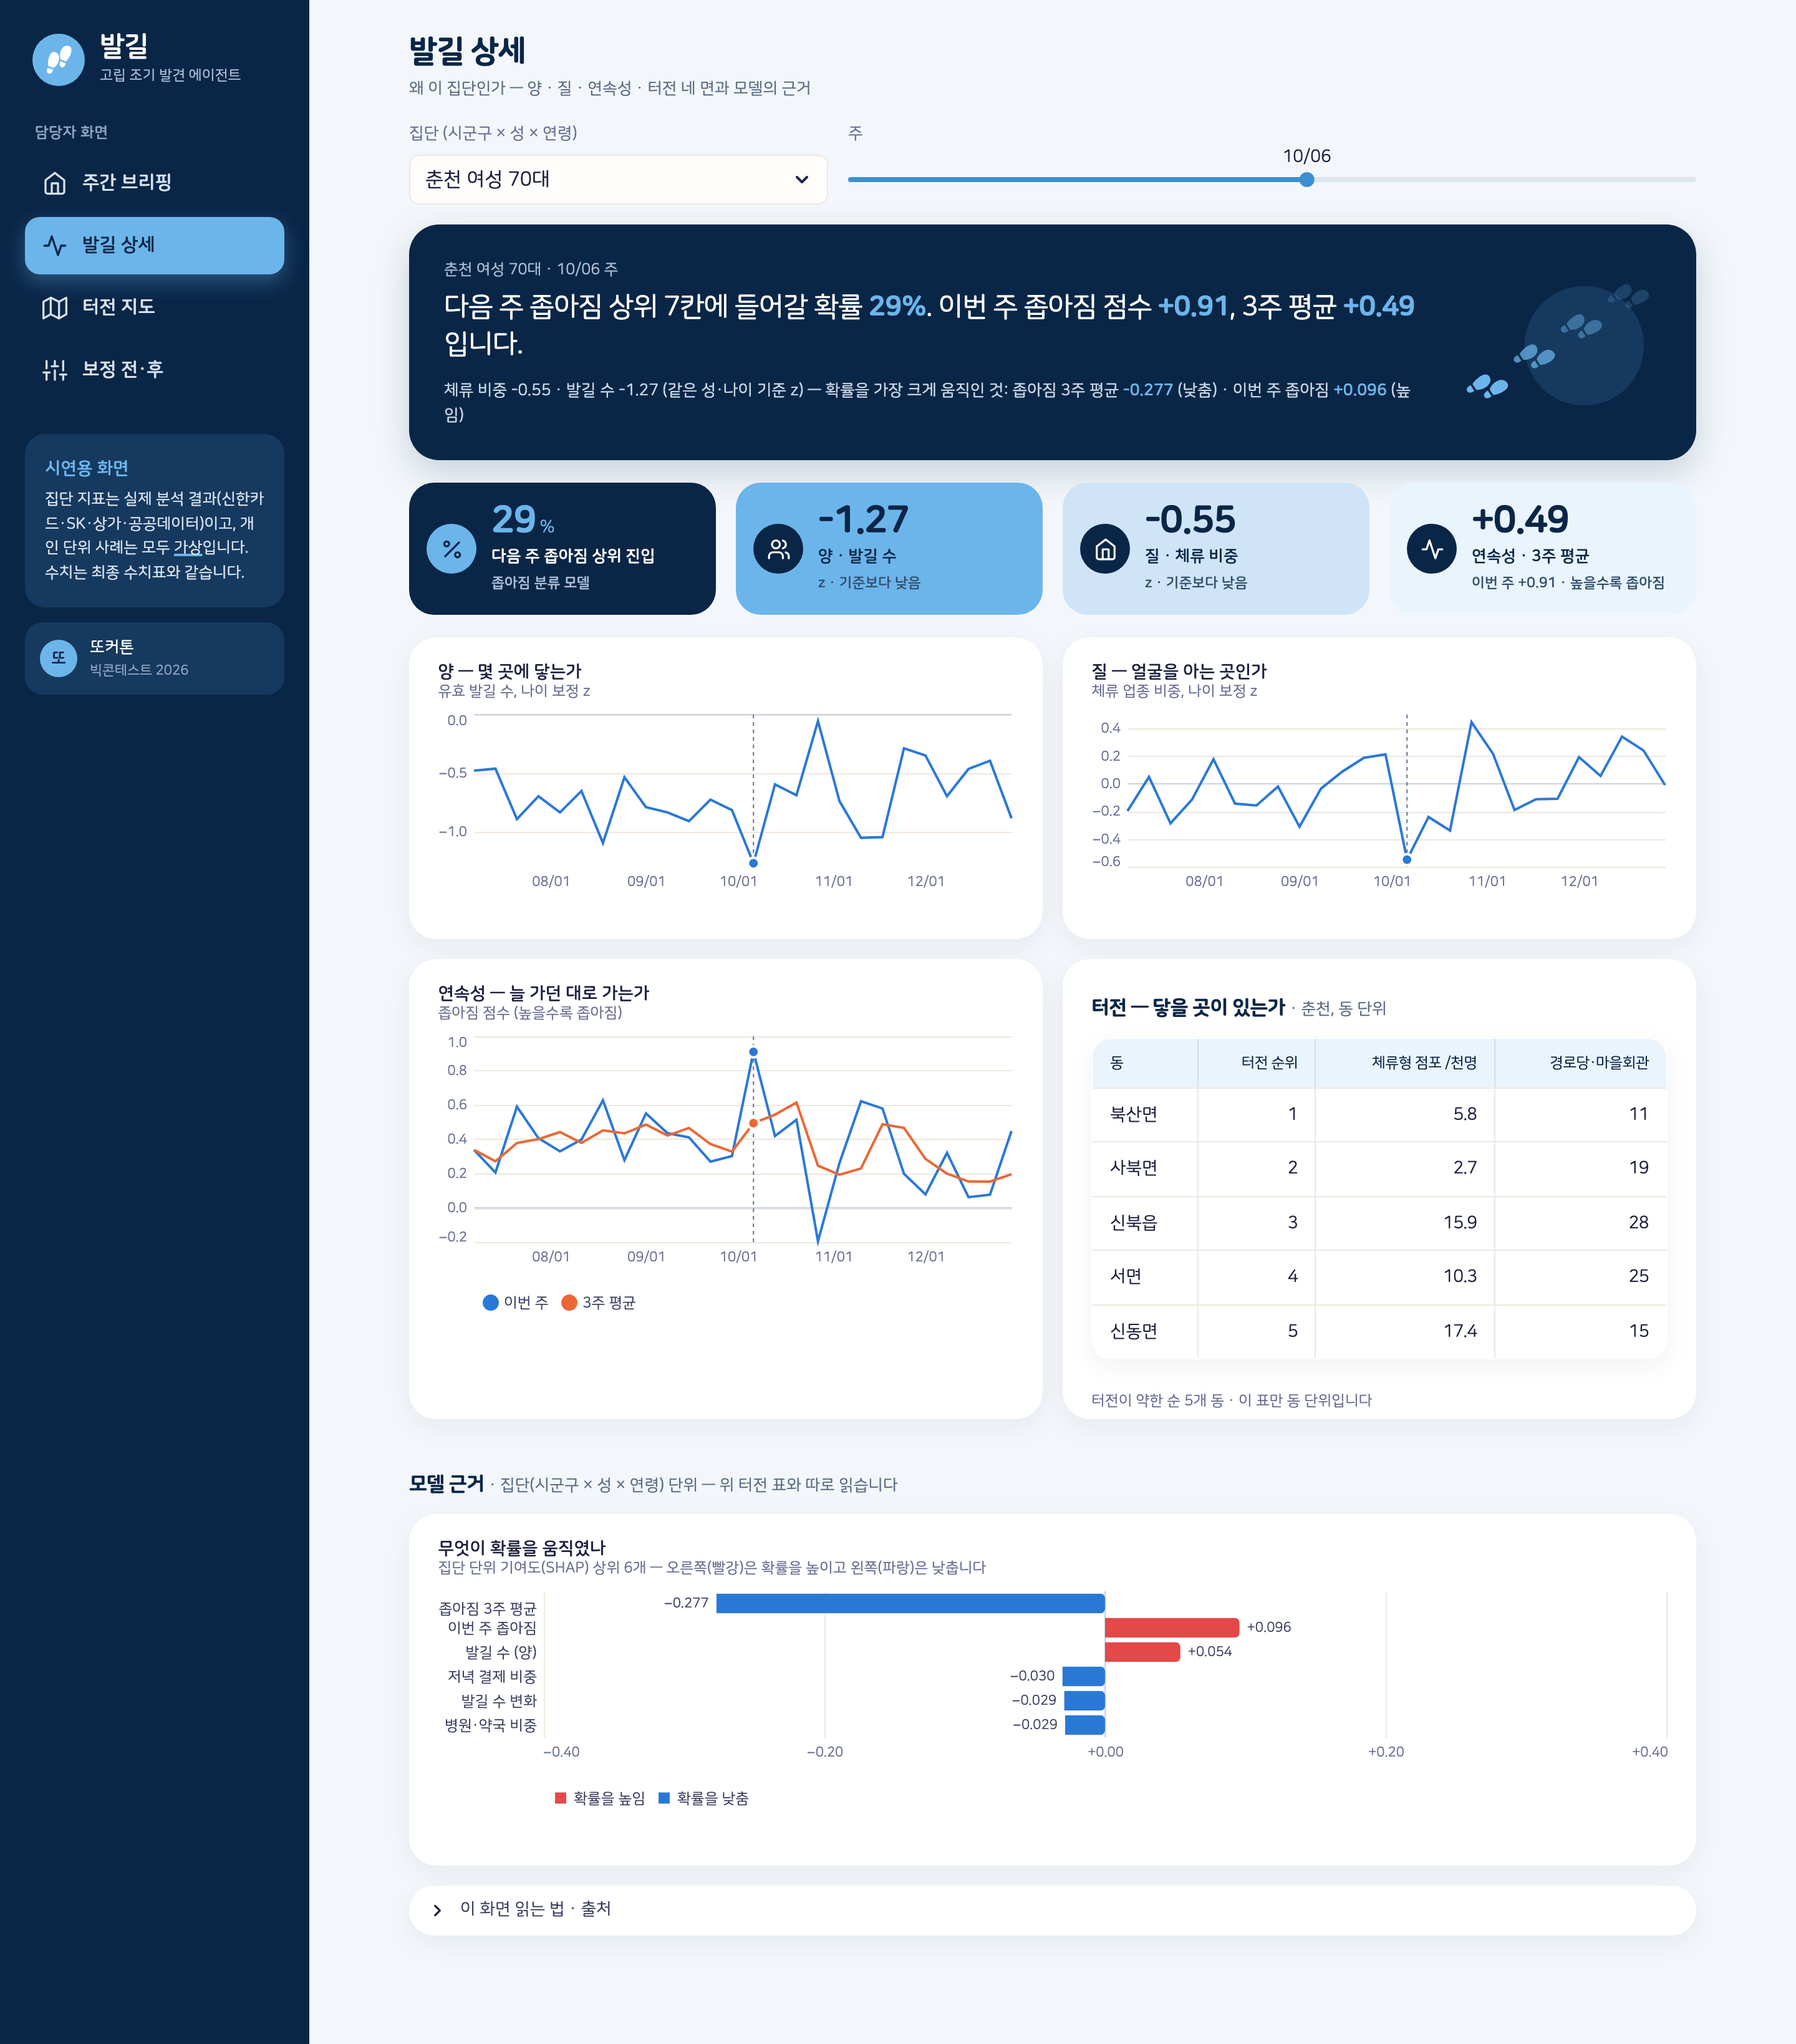
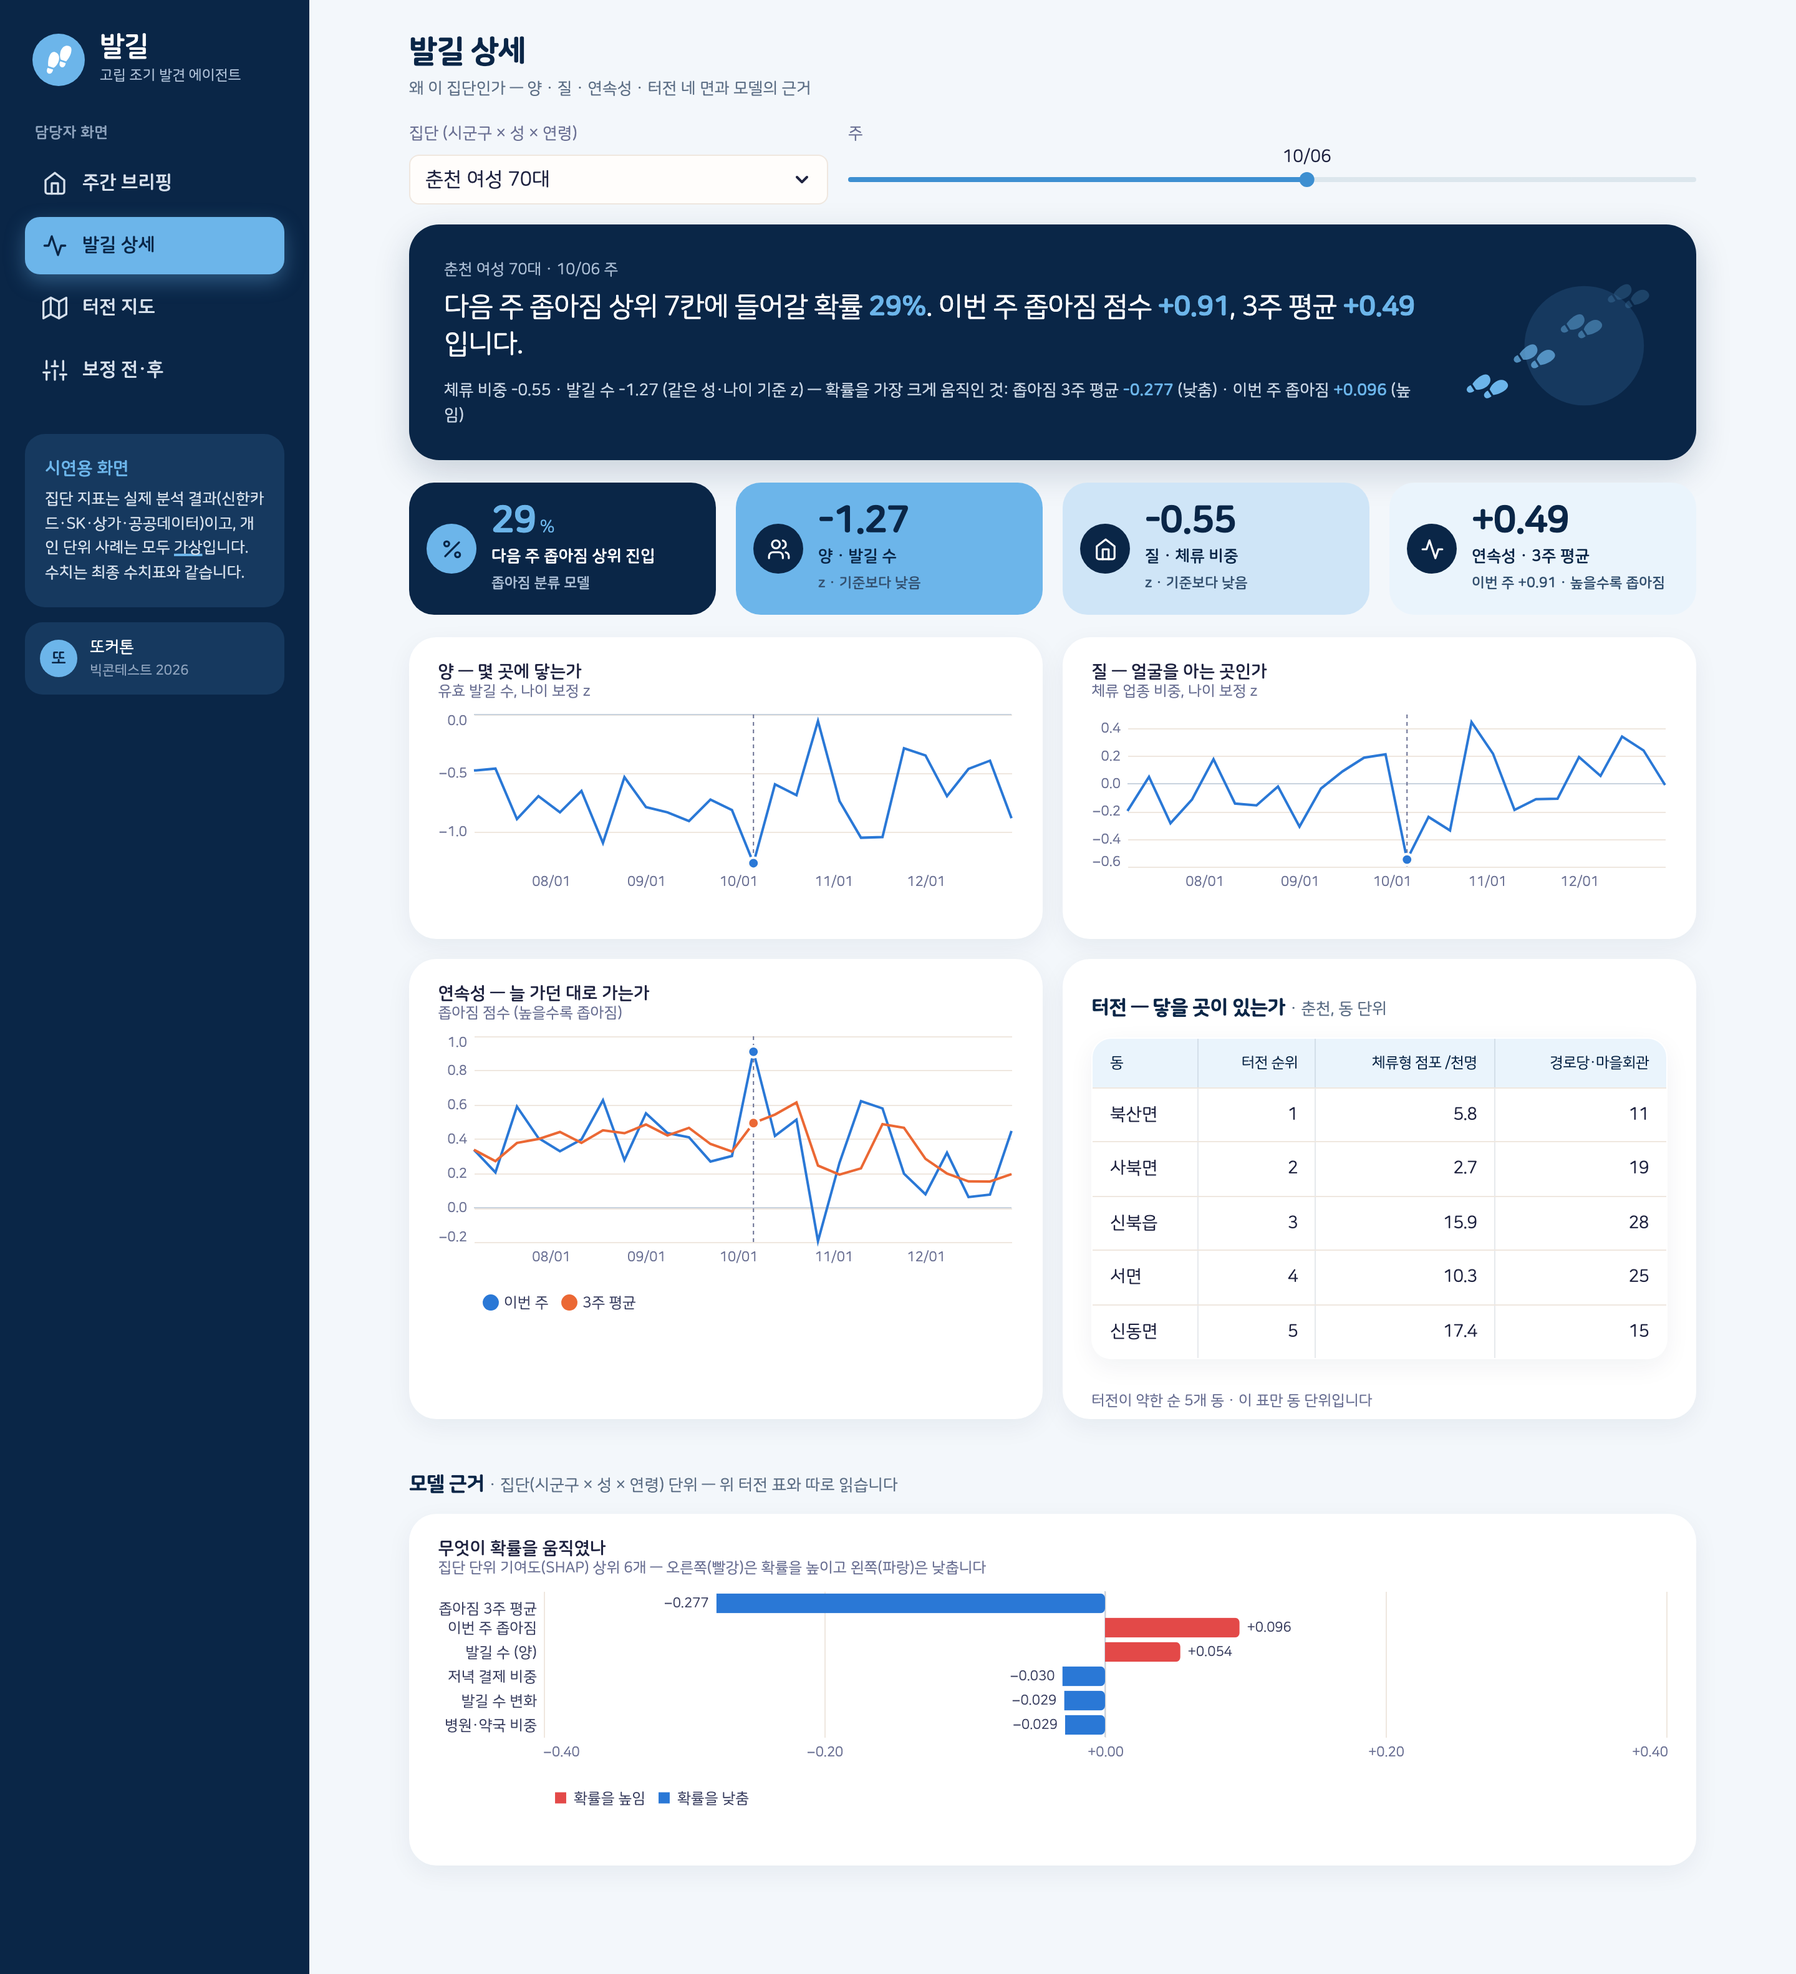
담당자 화면에서 「이 화면 읽는 법 · 출처」를 빼기 — 방법·출처는 보고서에 맡긴다
10/26 현수 의견: 단위 · 보정 · 창구 3배 · 출처 같은 설명은 보고서(06·07·08절 · E5)에 이미 있고, 대시보드에 두기엔 과합니다.
네 화면의 readme 칸과 readme() 함수를 지웠습니다. 가상 데이터 표기는 왼쪽 「시연용 화면」 안내와 「먼저 확인할 사람」 머리의 「가상 명부」로 남습니다.
캡처 다섯 장 · 발표 11장 그림 · 보고서 md/html을 다시 만들고, 제출 메일 3번 표의 화면캡처 zip을 2.41MB · 9293ddf4…로 바꿨습니다(드라이브에 올릴 그 파일).

diff --git a/app/balgil_app.py b/app/balgil_app.py
@@ -15,7 +15,7 @@
     장보기형·병원약국형 구분은 agent.py에 규칙이 생기면 따라 바꾼다(#4 수경 코멘트).
   * 숫자는 docs/최종수치표.md와 같다 — 화면이 새 숫자를 만들지 않고 위 파일만 읽는다.
   * 읽는 순서를 정한다: 질문(제목) → 답 카드 한 장(「그래서 무엇을」 + 오늘 할 일) → 그림 → 세부는 접어 둔다.
-    방법·출처 설명은 화면마다 맨 아래 「이 화면 읽는 법 · 출처」 한 곳에 모은다.
+    방법·출처 설명은 화면에 두지 않고 보고서(06·07·08절 · E5)에 맡긴다 — 담당자 화면에는 답과 그림만(10/26).
 
 겉모양은 app/style.py(Stripe DESIGN.md 토큰). 데이터 색은 dataviz 기준 팔레트(검증: validate_palette.js)
   신호(빨강·주황·노랑)  status critical/serious/warning — 색만으로 말하지 않고 항상 점·글자를 같이 단다
@@ -191,13 +191,6 @@ SHORT = {"빨강": "필수형 끊김", "주황": "대면형 끊김", "노랑": "
 SEXES, AGES = ["남", "여"], ["60대", "70대", "80대"]
 
 
-def readme(parts: list[str]):
-    """방법·출처 설명은 화면 맨 아래 한 곳에 접어 둔다 — 먼저 보는 자리에는 답과 그림만 둔다."""
-    with st.expander("이 화면 읽는 법 · 출처"):
-        for t in parts:
-            st.caption(t)
-
-
 def briefing_answer(g: pd.DataFrame, n_people: int) -> tuple[str, str, list | None]:
     """이번 주 답 — (한 줄, 덧말, 오늘 할 일). agent.py 권고 순서(07_에이전트 7.5)를 할 일 세 칸으로 편다.
     첫인상에서 읽히도록 한 줄은 짧게, 근거 숫자는 아래 타일·신호판이 맡는다."""
@@ -320,14 +313,6 @@ def screen_briefing():
         if steps:
             html(ui.timeline("오늘 할 일", "agent.py 권고 순서", steps))
         resource_lines(g)
-        readme([
-            "사람 — 대상자·주소·접촉일·장소는 모두 가상입니다. 신호는 집단 단위이고, 동은 대상자 주소에서만 붙입니다.",
-            "신호 — agent.py 판정입니다. 지난 7일 발길을 계절·같은 도시 30·40대 공통 충격으로 보정했습니다. "
-            "칸의 숫자는 7일 중 가장 크게 준 날(빨강은 필수, 주황은 대면 발길)입니다.",
-            "날씨 가능 — 끊긴 기간에 궂은 날이 있었다는 꼬리표일 뿐, 알림을 지우지 않습니다.",
-            "창구 — 그 동의 상대방 업종 가게가 경로당·마을회관의 3배가 안 되면 경로당·마을회관을 먼저 묻습니다(3배는 #49에서 정한 판단값). "
-            "표의 「가게 ↔ 경로당」은 그 비교에 쓴 공개 자료 개수이고, 전화할 곳의 수가 아닙니다 — 실제로 묻는 곳은 「물어볼 장소」 넉 줄까지입니다.",
-            "가져갈 것 — 복지로·1365에서 고른 집단 단위 후보입니다. 실제 연결은 방문한 담당자가 판단합니다."])
 
 
 # ── ② 발길 상세 ────────────────────────────────────────────────────────
@@ -543,10 +528,6 @@ def screen_detail():
         st.altair_chart((zero + bars + labels).properties(
             title=alt.Title("무엇이 확률을 움직였나", subtitle="집단 단위 기여도(SHAP) 상위 6개 — 오른쪽(빨강)은 확률을 높이고 왼쪽(파랑)은 낮춥니다"),
             height=240), width="stretch")
-    readme(["단위 — 지표와 확률은 집단(시군구 × 성 × 연령), 터전은 동 단위입니다. 터전은 모델 입력에 없어 따로 읽습니다(#14).",
-            "z — 같은 성·나이 기준으로 나이 효과를 덜어 낸 값입니다. 0이 기준, 음수면 기준보다 낮습니다.",
-            "모델 — 랜덤포레스트(재분석 b3)가 다음 주 좁아짐 상위 7칸에 들 확률입니다. 새로 든 양성이 31건뿐인 소표본입니다.",
-            "답 카드 — 고정 문장 틀입니다(LLM 아님)."])
 
 
 def side(z: float) -> str:
@@ -738,7 +719,6 @@ def map_metric_side(g: gpd.GeoDataFrame, city: str, col: str, label: str):
     st.write("")
     html("<div class='bg-callout'>체류형 점포와 경로당·마을회관은 <b>방향이 반대</b>입니다(춘천 스피어만 −0.79, 상가 × 시설). "
          "면 지역은 가게가 적은 대신 60세 이상 천 명당 경로당이 많아, 한 지수로 더하지 않고 따로 봅니다.</div>")
-    readme(["시설 — 사회복지시설은 좌표가 없어 뺐습니다. 경로당 목록 기준일은 강남 2024-07, 춘천 2025-07입니다."])
 
 
 def map_quadrant_side(g: gpd.GeoDataFrame, city: str):
@@ -762,9 +742,6 @@ def map_quadrant_side(g: gpd.GeoDataFrame, city: str):
                     "대응": ui.badge(QUAD[x.사분면][1], QUAD[x.사분면][0]),
                     "고령 1인세대": f"{int(x.고령1인세대수):,}"}
                    for x in p[short].head(6).itertuples()]))
-    readme(["사분면 — 공급 부족은 통신 터전 순위 하위 절반, 필요 큼은 고령 1인세대가 도시 중앙값 이상입니다.",
-            "도달 효율 — 우선순위 k개 동의 고령 1인세대 ÷ 무작위 k개 기댓값. 터전 하위 동만 고르면 무작위와 같아, 터전은 형평의 근거로 씁니다.",
-            "출처 — data/reference/dong_priority.csv · reach_efficiency.csv"])
 
 
 # ── ④ 보정 전·후 ───────────────────────────────────────────────────────
@@ -823,9 +800,6 @@ def screen_correction():
             title=alt.Title("집단 × 날짜 알림", subtitle=f"{step}{' · 병원·약국 분리' if nomed else ''} — 빨간 칸이 끊김 판정"),
             height=330), width="stretch")
         html(ui.legend([("알림 (끊김 판정)", CRITICAL), ("공통 사건 주간 (추석·광복절·성탄 뒤 7일)", SHADE)]))
-    readme([f"보정 — 알림 칸은 보정 없음 {n0} → 계절형 {n1} → 공통 충격(같은 도시 30·40대) {n2}개입니다.",
-            "병원·약국 분리 — 네 번째 단계가 아니라 같은 세 단계를 다시 잰 다른 축입니다(오른쪽 위 스위치).",
-            f"출처 — 재분석 b2 (reanalysis/reference/{'nomed_' if nomed else ''}false_alarm.csv)"])
 
 
 # ── 화면 ───────────────────────────────────────────────────────────────

diff --git a/docs/체크리스트_윤지.md b/docs/체크리스트_윤지.md
@@ -112,7 +112,7 @@
 
 - [x] ~~제출 메일 초안~~ → **10/16 완료**([`제출요건.md`](제출요건.md) 6-2). 팀명(**또커톤**)까지 채웠고 「보내기 전 확인」 다섯 줄을 붙였습니다. 남은 〈 〉는 **링크와 보내는 사람 이름** 둘입니다
 - [x] ~~10/25 — 발표 PDF · 보고서 PDF를 떠서 크기 재기~~ → **보고서 6.18MB(98쪽) · E5 0.37MB · E6 0.24MB**를 `python scripts/build_pdf.py`(크롬 헤드리스)로 떴습니다. 1쪽과 47쪽을 열어 한글 글꼴·표·그림을 눈으로 확인했습니다. **발표자료 PDF만 구글 슬라이드에서 내려받으면 됩니다**
-- [ ] **첨부 묶기** — `python scripts/build_package.py`. 10/26 기준 — **「큰 것은 링크」(#124)로 가면 첨부 6.99MB**라 PDF 넷에 **18.01MB**가 남습니다. PDF 셋이 6.80MB이니 **발표 PDF가 11.2MB 아래면 한 통**입니다. 드라이브로 가는 zip은 화면캡처 2.45MB(발표자료 색 화면으로 다시 찍은 뒤) · 상가 강원 12.73MB · 상가 서울 · SGIS 경계
+- [ ] **첨부 묶기** — `python scripts/build_package.py`. 10/26 기준 — **「큰 것은 링크」(#124)로 가면 첨부 6.99MB**라 PDF 넷에 **18.01MB**가 남습니다. PDF 셋이 6.80MB이니 **발표 PDF가 11.2MB 아래면 한 통**입니다. 드라이브로 가는 zip은 화면캡처 2.41MB(발표자료 색 화면으로 다시 찍은 뒤) · 상가 강원 12.73MB · 상가 서울 · SGIS 경계
 - [ ] **10/26 오전 제출** (`bigcontest@kait.or.kr`)
 - [ ] 보낸 메일·첨부 목록 캡처 보관
 
